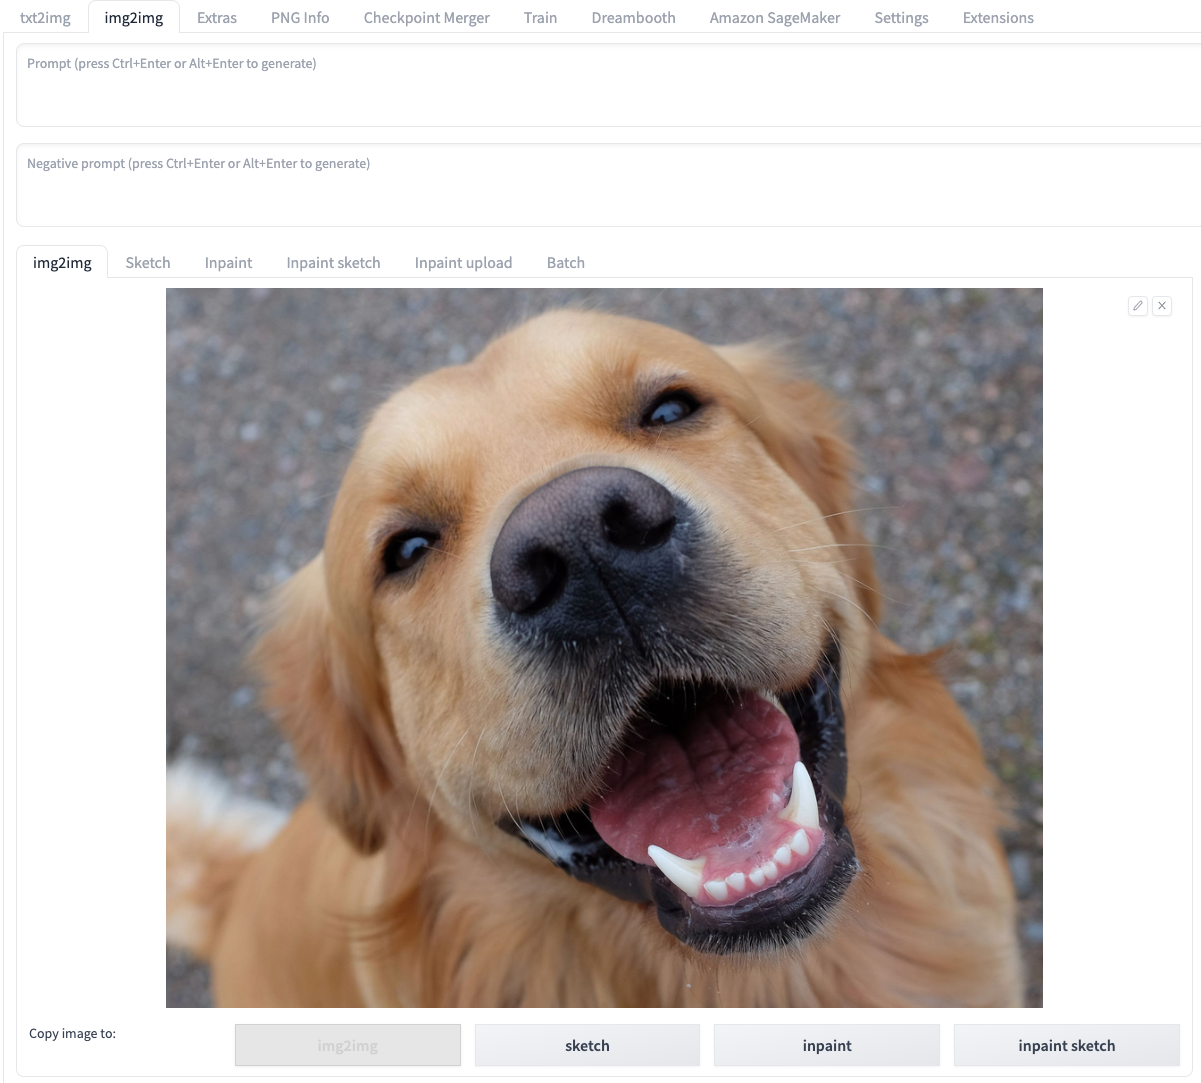
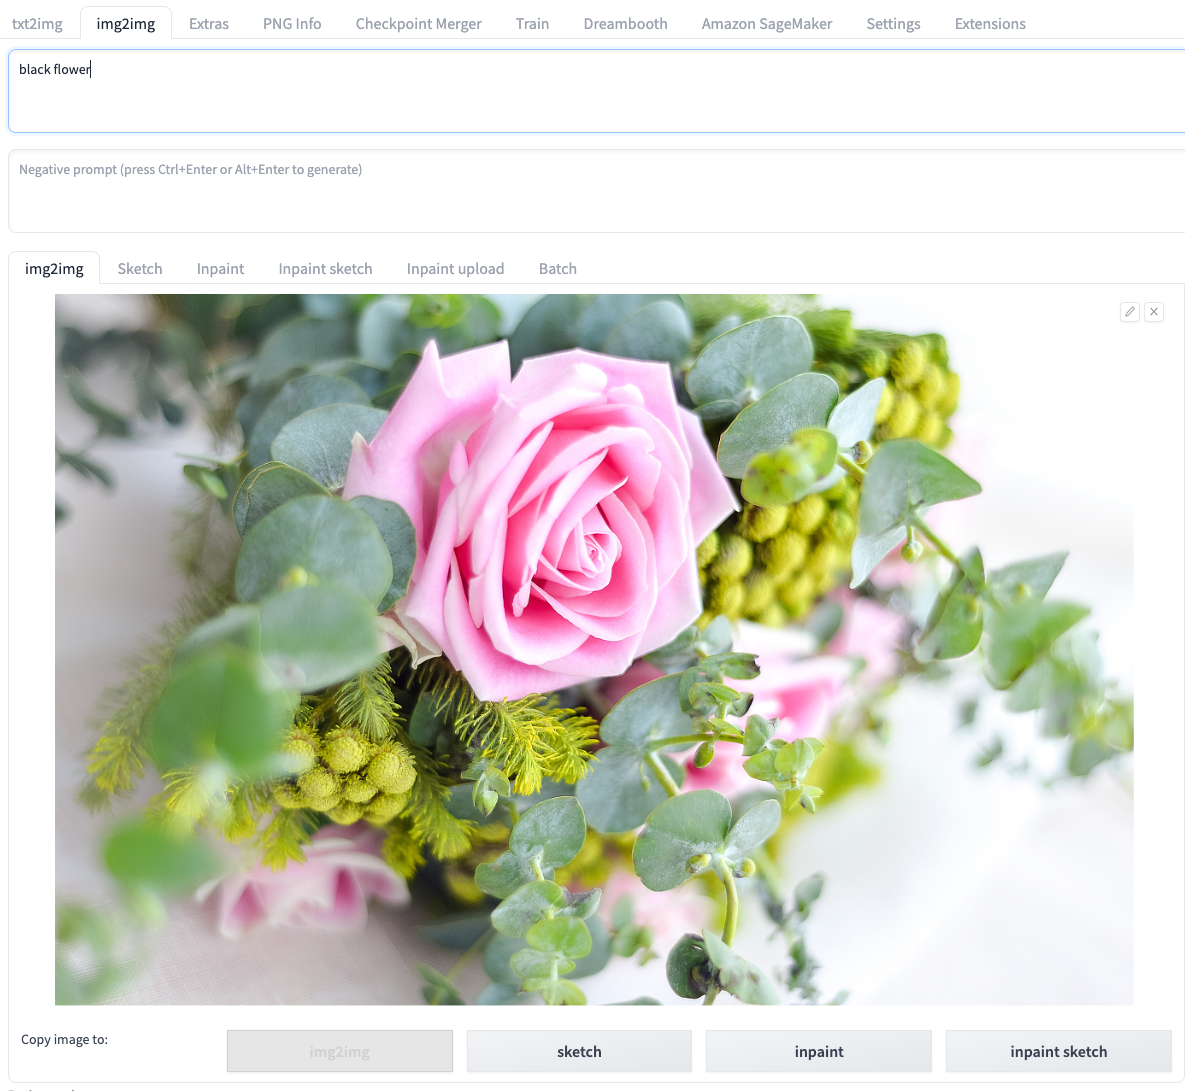
docs: update doc for img2img

diff --git a/middleware_api/lambda/inference/parse/parameter_parser.py b/middleware_api/lambda/inference/parse/parameter_parser.py
@@ -282,6 +282,7 @@ def json_convert_to_payload(params_dict, checkpoint_info, task_type):
             mask = ImageEnhance.Brightness(mask).enhance(1 - mask_alpha / 100)
             blur = ImageFilter.GaussianBlur(mask_blur)
             image_pil = Image.composite(image_pil.filter(blur), orig, mask.filter(blur))
+            image_pil = image_pil.convert("RGB")
             mask = encode_pil_to_base64(mask)
             image = encode_pil_to_base64(image_pil)
 

diff --git a/docs/zh/user-guide/img2img-guide.md b/docs/zh/user-guide/img2img-guide.md
@@ -4,13 +4,10 @@
 
 
 ## img2img的使用方法
-### img2img不同标签功能的使用
+### img2img不同标签功能的标准流程
 
 1. 进入**img2img**标签页，展开**Amazon SageMaker Inference**面板。
 2. 输入推理所需参数。同于本地推理，您可以按需编辑**img2img**原生的推理参数，包括提示词，负提示词，取样参数，推理参数等。对于**img2img**，**sketch**，**inpaint**，**inpaint sketch**和**inpaint upload**，都可以按照原生方式进行图片上传和修饰。
-下面以**inpaint sketch**为例:
-
-![inpaint sketch](../images/inpaint_sketch.png)
 
 3. 选择推理节点。点击**Select Cloud SageMaker Endpoint**右侧的刷新按钮，选择一个处于**InService**状态的推理节点。
 
@@ -22,14 +19,80 @@
 6. 查看推理结果。通过点击**Inference Job JDs**右侧的刷新按钮进行下拉列表刷新，查看最上方的、符合推理提交时间戳的**Inference Job ID**。img2img标签页右上方的**Output**区域会显示推理的结果，包括图片，提示词以及推理的参数等。在此基础上，可以点击**Save**或者**Send to extras**等，进行后续工作流。
 > **补充：** 列表按照推理时间倒序排列，即最近的推理任务排在最上方。每条记录的命名格式为**推理时间->任务类型（txt2img/img2img/interrogate_clip/interrogate_deepbooru）->推理状态（succeed/in progress/fail） ->inference id**。
 
-![generate results](../images/generate-results.png)
+### img2img标签操作示例
+
+1. 上传原始图片到**img2img**标签并输入提示词**black flower**
+
+![img2img raw](../images/img2img_tab.png)
+
+2. 通过**Generate on Cloud**并选择对应的**Inference Job ID**之后可以得到如下结果
+
+![img2img result](../images/img2img_result.png)
+
+### Sketch标签操作示例
+
+1. 启动**webui**的时候带上‘--gradio-img2img-tool color-sketch’
+上传白板底图到**Sketch标签**
+
+![sketch](../images/sketch_raw.png)
+
+2. 然后通过画笔，绘制下面的草图并准备提示词**flower**
+
+![sketch paint](../images/sketch_paint.png)
+
+2. 通过**Generate on Cloud**并选择对应的**Inference Job ID**之后可以得到如下结果
+
+![sketch result](../images/sketch_result.png)
+
+### Inpaint标签操作示例
+
+1. 上传原始图片到**Inpaint**标签并准备提示词**watermelon**
+
+![inpaint](../images/inpaint_tab.png)
+
+2. 然后通过画笔建立掩膜并准备提示词**watermelon**
+
+![inpaint_inpaint](../images/inpaint_inpaint.png)
+
+2. 通过**Generate on Cloud**并选择对应的**Inference Job ID**之后可以得到如下结果
+
+![inpaint result](../images/inpaint_result.png)
+
+
+### Inpatnt Sketch标签操作示例
+
+1. 启动**webui**的时候带上‘--gradio-img2img-tool color-sketch’，然后上传原始图片到**Inpaint Sketch**标签并准备提示词**candy**
+
+![inpaint_sketch](../images/inpaint_sketch_tab.png)
+
+2. 然后通过画笔建立掩膜
+
+![inpaint_sketch_inpaint](../images/inpaint_sketch_inpaint.png)
+
+2. 通过**Generate on Cloud**并选择对应的**Inference Job ID**之后可以得到如下结果
+
+![inpaint_sketch result](../images/inpaint_sketch_result.png)
+
+
+### Inpatnt Upload标签操作示例
+
+1. 上传原始图片和mask图片到**Inpaint Upload**标签并准备提示词**large eyes**
+
+![inpaint_upload](../images/inpaint_upload_tab.png)
+
+
+2. 通过**Generate on Cloud**并选择对应的**Inference Job ID**之后可以得到如下结果
+
+![inpaint_upload result](../images/inpaint_upload_result.png)
+
+
 
 ### Interrogate clip/deepbooru功能的使用
 
 1. 进入**img2img**标签页，展开**Amazon SageMaker Inference**面板。
 2. Interrogate只需要在**img2img**标签页把图片上传即可。
 
-![img2img tab](../images/img2img_tab.png)
+![img2img tab](../images/clip_tab.png)
 
 3. 选择推理节点。点击**Select Cloud SageMaker Endpoint**右侧的刷新按钮，选择一个处于**InService**状态的推理节点。
 
@@ -46,19 +109,3 @@ img2img标签的提示词区域就能看到结果。
 3. 在新的**Inference Job ID**出现后，便可再次点击**Generate on Cloud**进行下一次推理。
 
 ![continuous generate results](../images/continue-inference.png)
-
-
-## Controlnet的使用方法
-
-### openpose的使用方法
-1. 打开ControlNet面板，勾选**Enabel**，选择**Preprocessor**为**openpose**，同时上传图片。
- ![Controlnet-openpose-prepare](../images/controlnet-openpose-prepare.png)
-    
-2. 在**Amazon SageMaker Inference**面板的里面选择**Stable Diffusion Checkpoint**和**ControlNet-Model**。如下方示例图中选择**v1-5-pruned-emaonly.safetensors**和**control_openpose-fp16.safetensors**。提示词**a cute dog**。
-![Choose-controlnet-model](../images/choose-controlnet-model.png)
-3. 点击**Generate on Cloud**。
-
-4. 查看推理结果。通过点击**Inference Job JDs**右侧的刷新按钮进行下拉列表刷新，查看最上方的、符合推理提交时间戳的Inference Job ID。
-
-5. 后续操作。如需对推理图片保存或作进一步处理，可以点击**Save**或者**Send to img2img**等。
-![generate results controlnet](../images/cute-dog-controlnet.png)
